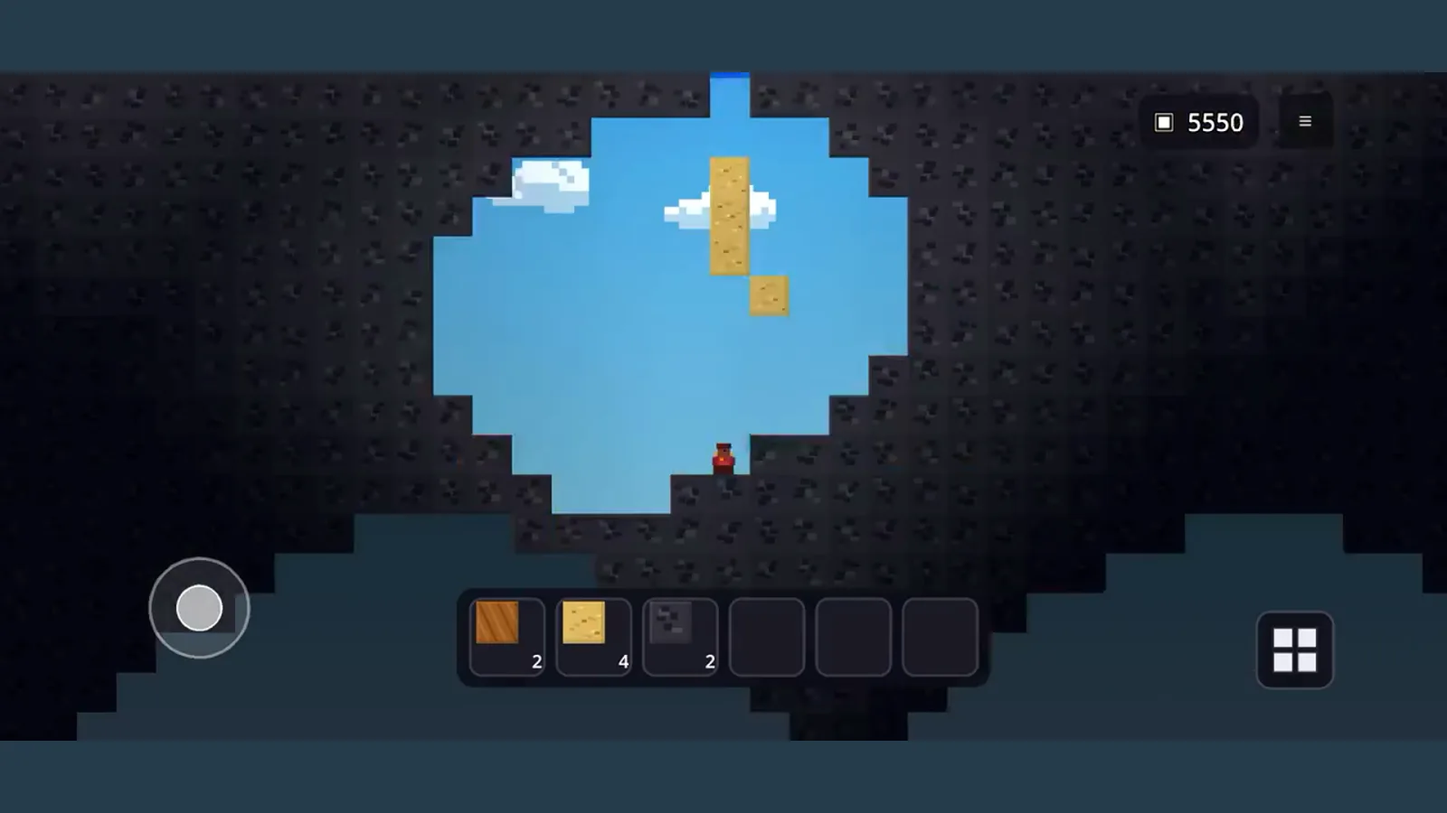
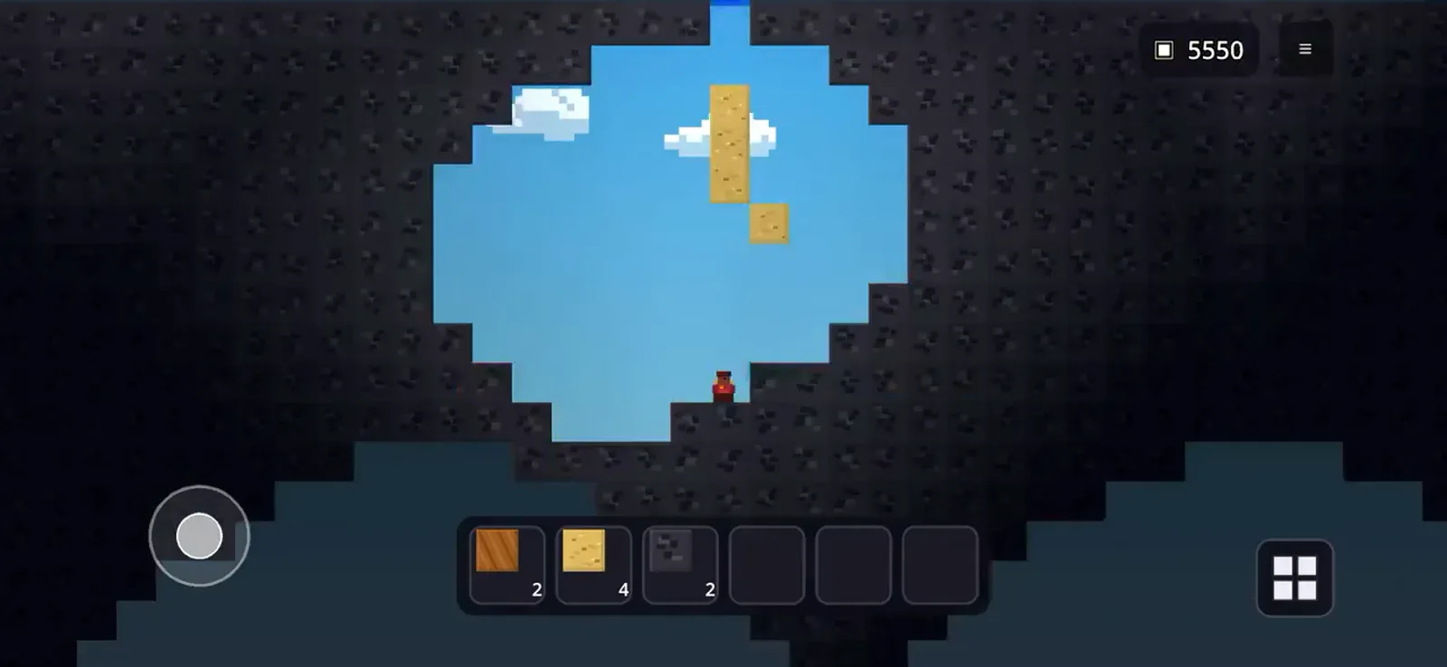
Crop letterboxing from gameplay wiki images

diff --git a/wiki/recipes/index.html b/wiki/recipes/index.html
@@ -24,7 +24,7 @@
 <body class="wiki-page">
   <header class="wiki-header"><a class="wiki-brand" href="/">Tiny Block</a><a class="btn btn-primary wiki-install" href="/download/">Play free</a></header>
   <nav class="wiki-nav" aria-label="Tiny Block Wiki"><a href="/wiki/">Wiki</a><a href="/wiki/biomes/">Biomes</a><a href="/wiki/materials/">Materials</a><a href="/wiki/creatures/">Creatures</a><a href="/wiki/plants/">Plants</a><a href="/wiki/recipes/">Recipes</a><a href="/guides/how-to-grow-your-one-block-island/">Starter guide</a></nav>
-  <main class="wiki-main"><section class="wiki-title"><p class="wiki-eyebrow">Crafting</p><h1>Recipes</h1><p>Use mined blocks and physical reactions to unlock stronger tools and new building materials.</p></section><div class="wiki-table-wrap"><table class="wiki-table"><thead><tr><th>Ingredients</th><th>Result</th></tr></thead><tbody><tr><td><div class="wiki-recipe-group"><span class="wiki-recipe-item"><img src="/assets/wiki/entities/materials/water.webp" alt="" width="512" height="512" loading="lazy"><span>Water<small>×1</small></span></span><span class="wiki-recipe-plus" aria-hidden="true">+</span><span class="wiki-recipe-item"><img src="/assets/wiki/entities/materials/lava.webp" alt="" width="512" height="512" loading="lazy"><span>Lava<small>×1</small></span></span></div></td><td><div class="wiki-recipe-group"><span class="wiki-recipe-item"><img src="/assets/wiki/entities/materials/cobblestone.webp" alt="" width="512" height="512" loading="lazy"><span>Cobblestone<small>×1</small></span></span></div></td></tr><tr><td><div class="wiki-recipe-group"><span class="wiki-recipe-item"><img src="/assets/wiki/entities/materials/cobblestone.webp" alt="" width="512" height="512" loading="lazy"><span>Cobblestone<small>×4</small></span></span></div></td><td><div class="wiki-recipe-group"><span class="wiki-recipe-item"><img src="/assets/wiki/entities/materials/stone.webp" alt="" width="512" height="512" loading="lazy"><span>Stone<small>×1</small></span></span></div></td></tr><tr><td><div class="wiki-recipe-group"><span class="wiki-recipe-item"><img src="/assets/wiki/entities/materials/leaves.webp" alt="" width="512" height="512" loading="lazy"><span>Leaves<small>×4</small></span></span></div></td><td><div class="wiki-recipe-group"><span class="wiki-recipe-item"><img src="/assets/wiki/entities/materials/wood.webp" alt="" width="512" height="512" loading="lazy"><span>Wood<small>×1</small></span></span></div></td></tr><tr><td><div class="wiki-recipe-group"><span class="wiki-recipe-item"><img src="/assets/wiki/entities/materials/stone.webp" alt="" width="512" height="512" loading="lazy"><span>Stone<small>×1</small></span></span></div></td><td><div class="wiki-recipe-group"><span class="wiki-recipe-item"><img src="/assets/wiki/entities/materials/gravel.webp" alt="" width="512" height="512" loading="lazy"><span>Gravel<small>×1</small></span></span></div></td></tr><tr><td><div class="wiki-recipe-group"><span class="wiki-recipe-item"><img src="/assets/wiki/entities/materials/gravel.webp" alt="" width="512" height="512" loading="lazy"><span>Gravel<small>×1</small></span></span></div></td><td><div class="wiki-recipe-group"><span class="wiki-recipe-item"><img src="/assets/wiki/entities/materials/sand.webp" alt="" width="512" height="512" loading="lazy"><span>Sand<small>×1</small></span></span></div></td></tr><tr><td><div class="wiki-recipe-group"><span class="wiki-recipe-item"><img src="/assets/wiki/entities/materials/sand.webp" alt="" width="512" height="512" loading="lazy"><span>Sand<small>×1</small></span></span><span class="wiki-recipe-plus" aria-hidden="true">+</span><span class="wiki-recipe-item"><img src="/assets/wiki/entities/materials/lava.webp" alt="" width="512" height="512" loading="lazy"><span>Lava<small>×1</small></span></span></div></td><td><div class="wiki-recipe-group"><span class="wiki-recipe-item"><img src="/assets/wiki/entities/materials/glass.webp" alt="" width="512" height="512" loading="lazy"><span>Glass<small>×1</small></span></span></div></td></tr><tr><td><div class="wiki-recipe-group"><span class="wiki-recipe-item"><img src="/assets/wiki/entities/materials/wood.webp" alt="" width="512" height="512" loading="lazy"><span>Wood<small>×1</small></span></span><span class="wiki-recipe-plus" aria-hidden="true">+</span><span class="wiki-recipe-item"><img src="/assets/wiki/entities/materials/lava.webp" alt="" width="512" height="512" loading="lazy"><span>Lava<small>×1</small></span></span></div></td><td><div class="wiki-recipe-group"><span class="wiki-recipe-item"><img src="/assets/wiki/entities/materials/charcoal.webp" alt="" width="512" height="512" loading="lazy"><span>Charcoal<small>×1</small></span></span></div></td></tr><tr><td><div class="wiki-recipe-group"><span class="wiki-recipe-item"><img src="/assets/wiki/entities/materials/wood.webp" alt="" width="512" height="512" loading="lazy"><span>Wood<small>×1</small></span></span></div></td><td><div class="wiki-recipe-group"><span class="wiki-recipe-item"><img src="/assets/wiki/entities/materials/planks.webp" alt="" width="512" height="512" loading="lazy"><span>Planks<small>×4</small></span></span></div></td></tr><tr><td><div class="wiki-recipe-group"><span class="wiki-recipe-item"><img src="/assets/wiki/entities/materials/stone.webp" alt="" width="512" height="512" loading="lazy"><span>Stone<small>×1</small></span></span><span class="wiki-recipe-plus" aria-hidden="true">+</span><span class="wiki-recipe-item"><img src="/assets/wiki/entities/materials/water.webp" alt="" width="512" height="512" loading="lazy"><span>Water<small>×1</small></span></span><span class="wiki-recipe-plus" aria-hidden="true">+</span><span class="wiki-recipe-item"><img src="/assets/wiki/entities/materials/lava.webp" alt="" width="512" height="512" loading="lazy"><span>Lava<small>×1</small></span></span></div></td><td><div class="wiki-recipe-group"><span class="wiki-recipe-item"><img src="/assets/wiki/entities/materials/obsidian.webp" alt="" width="512" height="512" loading="lazy"><span>Obsidian<small>×1</small></span></span></div></td></tr><tr><td><div class="wiki-recipe-group"><span class="wiki-recipe-item"><img src="/assets/wiki/entities/materials/planks.webp" alt="" width="512" height="512" loading="lazy"><span>Planks<small>×2</small></span></span><span class="wiki-recipe-plus" aria-hidden="true">+</span><span class="wiki-recipe-item"><img src="/assets/wiki/entities/materials/stone.webp" alt="" width="512" height="512" loading="lazy"><span>Stone<small>×1</small></span></span></div></td><td><div class="wiki-recipe-group"><span class="wiki-recipe-item"><img src="/assets/wiki/entities/materials/stone-pickaxe.webp" alt="" width="512" height="512" loading="lazy"><span>Stone Pickaxe<small>×1</small></span></span></div></td></tr><tr><td><div class="wiki-recipe-group"><span class="wiki-recipe-item"><img src="/assets/wiki/entities/materials/planks.webp" alt="" width="512" height="512" loading="lazy"><span>Planks<small>×4</small></span></span></div></td><td><div class="wiki-recipe-group"><span class="wiki-recipe-item"><img src="/assets/wiki/entities/materials/chest.webp" alt="" width="512" height="512" loading="lazy"><span>Chest<small>×1</small></span></span></div></td></tr><tr><td><div class="wiki-recipe-group"><span class="wiki-recipe-item"><img src="/assets/wiki/entities/materials/ice.webp" alt="" width="512" height="512" loading="lazy"><span>Ice<small>×4</small></span></span></div></td><td><div class="wiki-recipe-group"><span class="wiki-recipe-item"><img src="/assets/wiki/entities/materials/packed-ice.webp" alt="" width="512" height="512" loading="lazy"><span>Packed Ice<small>×1</small></span></span></div></td></tr><tr><td><div class="wiki-recipe-group"><span class="wiki-recipe-item"><img src="/assets/wiki/entities/materials/charcoal.webp" alt="" width="512" height="512" loading="lazy"><span>Charcoal<small>×1</small></span></span><span class="wiki-recipe-plus" aria-hidden="true">+</span><span class="wiki-recipe-item"><img src="/assets/wiki/entities/materials/glass.webp" alt="" width="512" height="512" loading="lazy"><span>Glass<small>×1</small></span></span><span class="wiki-recipe-plus" aria-hidden="true">+</span><span class="wiki-recipe-item"><img src="/assets/wiki/entities/materials/stone.webp" alt="" width="512" height="512" loading="lazy"><span>Stone<small>×1</small></span></span></div></td><td><div class="wiki-recipe-group"><span class="wiki-recipe-item"><img src="/assets/wiki/entities/materials/lantern.webp" alt="" width="512" height="512" loading="lazy"><span>Lantern<small>×1</small></span></span></div></td></tr><tr><td><div class="wiki-recipe-group"><span class="wiki-recipe-item"><img src="/assets/wiki/entities/materials/stone.webp" alt="" width="512" height="512" loading="lazy"><span>Stone<small>×2</small></span></span></div></td><td><div class="wiki-recipe-group"><span class="wiki-recipe-item"><img src="/assets/wiki/entities/materials/stone-bricks.webp" alt="" width="512" height="512" loading="lazy"><span>Stone Bricks<small>×2</small></span></span></div></td></tr><tr><td><div class="wiki-recipe-group"><span class="wiki-recipe-item"><img src="/assets/wiki/entities/materials/sand.webp" alt="" width="512" height="512" loading="lazy"><span>Sand<small>×2</small></span></span><span class="wiki-recipe-plus" aria-hidden="true">+</span><span class="wiki-recipe-item"><img src="/assets/wiki/entities/materials/stone.webp" alt="" width="512" height="512" loading="lazy"><span>Stone<small>×1</small></span></span></div></td><td><div class="wiki-recipe-group"><span class="wiki-recipe-item"><img src="/assets/wiki/entities/materials/sandstone.webp" alt="" width="512" height="512" loading="lazy"><span>Sandstone<small>×3</small></span></span></div></td></tr></tbody></table></div><figure class="wiki-wide-media"><img src="/assets/wiki/gameplay/06-recipes-inventory.webp" alt="Tiny Block crafting recipes and inventory" width="1600" height="900" loading="lazy"><figcaption>The in-game recipe catalog shows what can be made from discoveries in the current world.</figcaption></figure></main>
+  <main class="wiki-main"><section class="wiki-title"><p class="wiki-eyebrow">Crafting</p><h1>Recipes</h1><p>Use mined blocks and physical reactions to unlock stronger tools and new building materials.</p></section><div class="wiki-table-wrap"><table class="wiki-table"><thead><tr><th>Ingredients</th><th>Result</th></tr></thead><tbody><tr><td><div class="wiki-recipe-group"><span class="wiki-recipe-item"><img src="/assets/wiki/entities/materials/water.webp" alt="" width="512" height="512" loading="lazy"><span>Water<small>×1</small></span></span><span class="wiki-recipe-plus" aria-hidden="true">+</span><span class="wiki-recipe-item"><img src="/assets/wiki/entities/materials/lava.webp" alt="" width="512" height="512" loading="lazy"><span>Lava<small>×1</small></span></span></div></td><td><div class="wiki-recipe-group"><span class="wiki-recipe-item"><img src="/assets/wiki/entities/materials/cobblestone.webp" alt="" width="512" height="512" loading="lazy"><span>Cobblestone<small>×1</small></span></span></div></td></tr><tr><td><div class="wiki-recipe-group"><span class="wiki-recipe-item"><img src="/assets/wiki/entities/materials/cobblestone.webp" alt="" width="512" height="512" loading="lazy"><span>Cobblestone<small>×4</small></span></span></div></td><td><div class="wiki-recipe-group"><span class="wiki-recipe-item"><img src="/assets/wiki/entities/materials/stone.webp" alt="" width="512" height="512" loading="lazy"><span>Stone<small>×1</small></span></span></div></td></tr><tr><td><div class="wiki-recipe-group"><span class="wiki-recipe-item"><img src="/assets/wiki/entities/materials/leaves.webp" alt="" width="512" height="512" loading="lazy"><span>Leaves<small>×4</small></span></span></div></td><td><div class="wiki-recipe-group"><span class="wiki-recipe-item"><img src="/assets/wiki/entities/materials/wood.webp" alt="" width="512" height="512" loading="lazy"><span>Wood<small>×1</small></span></span></div></td></tr><tr><td><div class="wiki-recipe-group"><span class="wiki-recipe-item"><img src="/assets/wiki/entities/materials/stone.webp" alt="" width="512" height="512" loading="lazy"><span>Stone<small>×1</small></span></span></div></td><td><div class="wiki-recipe-group"><span class="wiki-recipe-item"><img src="/assets/wiki/entities/materials/gravel.webp" alt="" width="512" height="512" loading="lazy"><span>Gravel<small>×1</small></span></span></div></td></tr><tr><td><div class="wiki-recipe-group"><span class="wiki-recipe-item"><img src="/assets/wiki/entities/materials/gravel.webp" alt="" width="512" height="512" loading="lazy"><span>Gravel<small>×1</small></span></span></div></td><td><div class="wiki-recipe-group"><span class="wiki-recipe-item"><img src="/assets/wiki/entities/materials/sand.webp" alt="" width="512" height="512" loading="lazy"><span>Sand<small>×1</small></span></span></div></td></tr><tr><td><div class="wiki-recipe-group"><span class="wiki-recipe-item"><img src="/assets/wiki/entities/materials/sand.webp" alt="" width="512" height="512" loading="lazy"><span>Sand<small>×1</small></span></span><span class="wiki-recipe-plus" aria-hidden="true">+</span><span class="wiki-recipe-item"><img src="/assets/wiki/entities/materials/lava.webp" alt="" width="512" height="512" loading="lazy"><span>Lava<small>×1</small></span></span></div></td><td><div class="wiki-recipe-group"><span class="wiki-recipe-item"><img src="/assets/wiki/entities/materials/glass.webp" alt="" width="512" height="512" loading="lazy"><span>Glass<small>×1</small></span></span></div></td></tr><tr><td><div class="wiki-recipe-group"><span class="wiki-recipe-item"><img src="/assets/wiki/entities/materials/wood.webp" alt="" width="512" height="512" loading="lazy"><span>Wood<small>×1</small></span></span><span class="wiki-recipe-plus" aria-hidden="true">+</span><span class="wiki-recipe-item"><img src="/assets/wiki/entities/materials/lava.webp" alt="" width="512" height="512" loading="lazy"><span>Lava<small>×1</small></span></span></div></td><td><div class="wiki-recipe-group"><span class="wiki-recipe-item"><img src="/assets/wiki/entities/materials/charcoal.webp" alt="" width="512" height="512" loading="lazy"><span>Charcoal<small>×1</small></span></span></div></td></tr><tr><td><div class="wiki-recipe-group"><span class="wiki-recipe-item"><img src="/assets/wiki/entities/materials/wood.webp" alt="" width="512" height="512" loading="lazy"><span>Wood<small>×1</small></span></span></div></td><td><div class="wiki-recipe-group"><span class="wiki-recipe-item"><img src="/assets/wiki/entities/materials/planks.webp" alt="" width="512" height="512" loading="lazy"><span>Planks<small>×4</small></span></span></div></td></tr><tr><td><div class="wiki-recipe-group"><span class="wiki-recipe-item"><img src="/assets/wiki/entities/materials/stone.webp" alt="" width="512" height="512" loading="lazy"><span>Stone<small>×1</small></span></span><span class="wiki-recipe-plus" aria-hidden="true">+</span><span class="wiki-recipe-item"><img src="/assets/wiki/entities/materials/water.webp" alt="" width="512" height="512" loading="lazy"><span>Water<small>×1</small></span></span><span class="wiki-recipe-plus" aria-hidden="true">+</span><span class="wiki-recipe-item"><img src="/assets/wiki/entities/materials/lava.webp" alt="" width="512" height="512" loading="lazy"><span>Lava<small>×1</small></span></span></div></td><td><div class="wiki-recipe-group"><span class="wiki-recipe-item"><img src="/assets/wiki/entities/materials/obsidian.webp" alt="" width="512" height="512" loading="lazy"><span>Obsidian<small>×1</small></span></span></div></td></tr><tr><td><div class="wiki-recipe-group"><span class="wiki-recipe-item"><img src="/assets/wiki/entities/materials/planks.webp" alt="" width="512" height="512" loading="lazy"><span>Planks<small>×2</small></span></span><span class="wiki-recipe-plus" aria-hidden="true">+</span><span class="wiki-recipe-item"><img src="/assets/wiki/entities/materials/stone.webp" alt="" width="512" height="512" loading="lazy"><span>Stone<small>×1</small></span></span></div></td><td><div class="wiki-recipe-group"><span class="wiki-recipe-item"><img src="/assets/wiki/entities/materials/stone-pickaxe.webp" alt="" width="512" height="512" loading="lazy"><span>Stone Pickaxe<small>×1</small></span></span></div></td></tr><tr><td><div class="wiki-recipe-group"><span class="wiki-recipe-item"><img src="/assets/wiki/entities/materials/planks.webp" alt="" width="512" height="512" loading="lazy"><span>Planks<small>×4</small></span></span></div></td><td><div class="wiki-recipe-group"><span class="wiki-recipe-item"><img src="/assets/wiki/entities/materials/chest.webp" alt="" width="512" height="512" loading="lazy"><span>Chest<small>×1</small></span></span></div></td></tr><tr><td><div class="wiki-recipe-group"><span class="wiki-recipe-item"><img src="/assets/wiki/entities/materials/ice.webp" alt="" width="512" height="512" loading="lazy"><span>Ice<small>×4</small></span></span></div></td><td><div class="wiki-recipe-group"><span class="wiki-recipe-item"><img src="/assets/wiki/entities/materials/packed-ice.webp" alt="" width="512" height="512" loading="lazy"><span>Packed Ice<small>×1</small></span></span></div></td></tr><tr><td><div class="wiki-recipe-group"><span class="wiki-recipe-item"><img src="/assets/wiki/entities/materials/charcoal.webp" alt="" width="512" height="512" loading="lazy"><span>Charcoal<small>×1</small></span></span><span class="wiki-recipe-plus" aria-hidden="true">+</span><span class="wiki-recipe-item"><img src="/assets/wiki/entities/materials/glass.webp" alt="" width="512" height="512" loading="lazy"><span>Glass<small>×1</small></span></span><span class="wiki-recipe-plus" aria-hidden="true">+</span><span class="wiki-recipe-item"><img src="/assets/wiki/entities/materials/stone.webp" alt="" width="512" height="512" loading="lazy"><span>Stone<small>×1</small></span></span></div></td><td><div class="wiki-recipe-group"><span class="wiki-recipe-item"><img src="/assets/wiki/entities/materials/lantern.webp" alt="" width="512" height="512" loading="lazy"><span>Lantern<small>×1</small></span></span></div></td></tr><tr><td><div class="wiki-recipe-group"><span class="wiki-recipe-item"><img src="/assets/wiki/entities/materials/stone.webp" alt="" width="512" height="512" loading="lazy"><span>Stone<small>×2</small></span></span></div></td><td><div class="wiki-recipe-group"><span class="wiki-recipe-item"><img src="/assets/wiki/entities/materials/stone-bricks.webp" alt="" width="512" height="512" loading="lazy"><span>Stone Bricks<small>×2</small></span></span></div></td></tr><tr><td><div class="wiki-recipe-group"><span class="wiki-recipe-item"><img src="/assets/wiki/entities/materials/sand.webp" alt="" width="512" height="512" loading="lazy"><span>Sand<small>×2</small></span></span><span class="wiki-recipe-plus" aria-hidden="true">+</span><span class="wiki-recipe-item"><img src="/assets/wiki/entities/materials/stone.webp" alt="" width="512" height="512" loading="lazy"><span>Stone<small>×1</small></span></span></div></td><td><div class="wiki-recipe-group"><span class="wiki-recipe-item"><img src="/assets/wiki/entities/materials/sandstone.webp" alt="" width="512" height="512" loading="lazy"><span>Sandstone<small>×3</small></span></span></div></td></tr></tbody></table></div><figure class="wiki-wide-media"><img src="/assets/wiki/gameplay/06-recipes-inventory.webp" alt="Tiny Block crafting recipes and inventory" width="1600" height="738" loading="lazy"><figcaption>The in-game recipe catalog shows what can be made from discoveries in the current world.</figcaption></figure></main>
   <footer class="site-foot wiki-foot"><a href="/">Game</a><a href="/creators/">Creators</a><a href="/privacy/">Privacy</a><a href="https://nosuchgames.com">No Such Games</a></footer>
 </body>
 </html>

diff --git a/wiki/index.html b/wiki/index.html
@@ -24,7 +24,7 @@
 <body class="wiki-page">
   <header class="wiki-header"><a class="wiki-brand" href="/">Tiny Block</a><a class="btn btn-primary wiki-install" href="/download/">Play free</a></header>
   <nav class="wiki-nav" aria-label="Tiny Block Wiki"><a href="/wiki/">Wiki</a><a href="/wiki/biomes/">Biomes</a><a href="/wiki/materials/">Materials</a><a href="/wiki/creatures/">Creatures</a><a href="/wiki/plants/">Plants</a><a href="/wiki/recipes/">Recipes</a><a href="/guides/how-to-grow-your-one-block-island/">Starter guide</a></nav>
-  <main class="wiki-main"><section class="wiki-hero"><p class="wiki-eyebrow">Official game guide</p><h1>Tiny Block Wiki</h1><p>Explore the biomes, materials, recipes, plants, and creatures already living inside Tiny Block.</p><img src="/assets/wiki/gameplay/05-random-world.webp" alt="A generated floating island in Tiny Block" width="1600" height="900"></section><div class="wiki-grid"><a class="wiki-card wiki-card-link" href="/wiki/biomes/"><p class="wiki-label">Guide</p><h2>Biomes</h2><p>Open the current in-game catalog and learn where each discovery fits.</p></a><a class="wiki-card wiki-card-link" href="/wiki/materials/"><p class="wiki-label">Guide</p><h2>Materials</h2><p>Open the current in-game catalog and learn where each discovery fits.</p></a><a class="wiki-card wiki-card-link" href="/wiki/creatures/"><p class="wiki-label">Guide</p><h2>Creatures</h2><p>Open the current in-game catalog and learn where each discovery fits.</p></a><a class="wiki-card wiki-card-link" href="/wiki/plants/"><p class="wiki-label">Guide</p><h2>Plants</h2><p>Open the current in-game catalog and learn where each discovery fits.</p></a><a class="wiki-card wiki-card-link" href="/wiki/recipes/"><p class="wiki-label">Guide</p><h2>Recipes</h2><p>Open the current in-game catalog and learn where each discovery fits.</p></a><a class="wiki-card wiki-card-link" href="/guides/how-to-grow-your-one-block-island/"><p class="wiki-label">Guide</p><h2>Starter guide</h2><p>Open the current in-game catalog and learn where each discovery fits.</p></a></div></main>
+  <main class="wiki-main"><section class="wiki-hero"><p class="wiki-eyebrow">Official game guide</p><h1>Tiny Block Wiki</h1><p>Explore the biomes, materials, recipes, plants, and creatures already living inside Tiny Block.</p><img src="/assets/wiki/gameplay/05-random-world.webp" alt="A generated floating island in Tiny Block" width="1600" height="738"></section><div class="wiki-grid"><a class="wiki-card wiki-card-link" href="/wiki/biomes/"><p class="wiki-label">Guide</p><h2>Biomes</h2><p>Open the current in-game catalog and learn where each discovery fits.</p></a><a class="wiki-card wiki-card-link" href="/wiki/materials/"><p class="wiki-label">Guide</p><h2>Materials</h2><p>Open the current in-game catalog and learn where each discovery fits.</p></a><a class="wiki-card wiki-card-link" href="/wiki/creatures/"><p class="wiki-label">Guide</p><h2>Creatures</h2><p>Open the current in-game catalog and learn where each discovery fits.</p></a><a class="wiki-card wiki-card-link" href="/wiki/plants/"><p class="wiki-label">Guide</p><h2>Plants</h2><p>Open the current in-game catalog and learn where each discovery fits.</p></a><a class="wiki-card wiki-card-link" href="/wiki/recipes/"><p class="wiki-label">Guide</p><h2>Recipes</h2><p>Open the current in-game catalog and learn where each discovery fits.</p></a><a class="wiki-card wiki-card-link" href="/guides/how-to-grow-your-one-block-island/"><p class="wiki-label">Guide</p><h2>Starter guide</h2><p>Open the current in-game catalog and learn where each discovery fits.</p></a></div></main>
   <footer class="site-foot wiki-foot"><a href="/">Game</a><a href="/creators/">Creators</a><a href="/privacy/">Privacy</a><a href="https://nosuchgames.com">No Such Games</a></footer>
 </body>
 </html>

diff --git a/guides/how-to-grow-your-one-block-island/index.html b/guides/how-to-grow-your-one-block-island/index.html
@@ -32,7 +32,7 @@
       <article><span>04</span><h2>Craft tools and storage</h2><p>Turn wood into planks, then make a pickaxe and chest. Better tools shorten mining time and protect your discoveries.</p></article>
       <article><span>05</span><h2>Follow new biomes</h2><p>Floating Islands introduce different terrain, plants, creatures, and recipes. Prepare for darkness, ice, lava, and aggressive night creatures.</p></article>
     </div>
-    <figure class="wiki-wide-media"><img src="/assets/wiki/gameplay/01-one-block-skyblock.webp" alt="Starting a One Block Skyblock world in Tiny Block" width="1600" height="900"><figcaption>A new One Block world starts small and grows through mining, crafting, and discovery.</figcaption></figure></main>
+    <figure class="wiki-wide-media"><img src="/assets/wiki/gameplay/01-one-block-skyblock.webp" alt="Starting a One Block Skyblock world in Tiny Block" width="1600" height="738"><figcaption>A new One Block world starts small and grows through mining, crafting, and discovery.</figcaption></figure></main>
   <footer class="site-foot wiki-foot"><a href="/">Game</a><a href="/creators/">Creators</a><a href="/privacy/">Privacy</a><a href="https://nosuchgames.com">No Such Games</a></footer>
 </body>
 </html>

diff --git a/scripts/generate_wiki.py b/scripts/generate_wiki.py
@@ -169,7 +169,7 @@ def recipe_group(items: tuple[tuple[str, int, str], ...]) -> str:
 
 
 def render() -> None:
-    overview = '''<section class="wiki-hero"><p class="wiki-eyebrow">Official game guide</p><h1>Tiny Block Wiki</h1><p>Explore the biomes, materials, recipes, plants, and creatures already living inside Tiny Block.</p><img src="/assets/wiki/gameplay/05-random-world.webp" alt="A generated floating island in Tiny Block" width="1600" height="900"></section>'''
+    overview = '''<section class="wiki-hero"><p class="wiki-eyebrow">Official game guide</p><h1>Tiny Block Wiki</h1><p>Explore the biomes, materials, recipes, plants, and creatures already living inside Tiny Block.</p><img src="/assets/wiki/gameplay/05-random-world.webp" alt="A generated floating island in Tiny Block" width="1600" height="738"></section>'''
     overview += '<div class="wiki-grid">' + "".join(
         f'<a class="wiki-card wiki-card-link" href="{href}"><p class="wiki-label">Guide</p><h2>{esc(label)}</h2><p>Open the current in-game catalog and learn where each discovery fits.</p></a>'
         for label, href in NAV[1:]
@@ -190,7 +190,7 @@ def render() -> None:
     page("Plants", "Explore Tiny Block flowers, vines, decorative plants, and biome-specific trees.", "wiki/plants/", '<section class="wiki-title"><p class="wiki-eyebrow">Growing discoveries</p><h1>Plants</h1><p>Plant life ranges from single flowers and potted decor to hanging cave vines and full trees.</p></section>' + card_grid(PLANTS, "Plant", "plants"))
 
     rows = "".join(f'<tr><td>{recipe_group(recipe[:-1])}</td><td>{recipe_group(recipe[-1:])}</td></tr>' for recipe in RECIPES)
-    page("Crafting Recipes", "Current starter recipes for materials, tools, storage, building blocks, and light in Tiny Block.", "wiki/recipes/", f'<section class="wiki-title"><p class="wiki-eyebrow">Crafting</p><h1>Recipes</h1><p>Use mined blocks and physical reactions to unlock stronger tools and new building materials.</p></section><div class="wiki-table-wrap"><table class="wiki-table"><thead><tr><th>Ingredients</th><th>Result</th></tr></thead><tbody>{rows}</tbody></table></div><figure class="wiki-wide-media"><img src="/assets/wiki/gameplay/06-recipes-inventory.webp" alt="Tiny Block crafting recipes and inventory" width="1600" height="900" loading="lazy"><figcaption>The in-game recipe catalog shows what can be made from discoveries in the current world.</figcaption></figure>')
+    page("Crafting Recipes", "Current starter recipes for materials, tools, storage, building blocks, and light in Tiny Block.", "wiki/recipes/", f'<section class="wiki-title"><p class="wiki-eyebrow">Crafting</p><h1>Recipes</h1><p>Use mined blocks and physical reactions to unlock stronger tools and new building materials.</p></section><div class="wiki-table-wrap"><table class="wiki-table"><thead><tr><th>Ingredients</th><th>Result</th></tr></thead><tbody>{rows}</tbody></table></div><figure class="wiki-wide-media"><img src="/assets/wiki/gameplay/06-recipes-inventory.webp" alt="Tiny Block crafting recipes and inventory" width="1600" height="738" loading="lazy"><figcaption>The in-game recipe catalog shows what can be made from discoveries in the current world.</figcaption></figure>')
 
     guide = '''<section class="wiki-title"><p class="wiki-eyebrow">One Block starter guide</p><h1>How to grow your floating island</h1><p>Turn the first block into a safe, renewable base before exploring farther biomes.</p></section>
     <div class="guide-steps">
@@ -200,7 +200,7 @@ def render() -> None:
       <article><span>04</span><h2>Craft tools and storage</h2><p>Turn wood into planks, then make a pickaxe and chest. Better tools shorten mining time and protect your discoveries.</p></article>
       <article><span>05</span><h2>Follow new biomes</h2><p>Floating Islands introduce different terrain, plants, creatures, and recipes. Prepare for darkness, ice, lava, and aggressive night creatures.</p></article>
     </div>
-    <figure class="wiki-wide-media"><img src="/assets/wiki/gameplay/01-one-block-skyblock.webp" alt="Starting a One Block Skyblock world in Tiny Block" width="1600" height="900"><figcaption>A new One Block world starts small and grows through mining, crafting, and discovery.</figcaption></figure>'''
+    <figure class="wiki-wide-media"><img src="/assets/wiki/gameplay/01-one-block-skyblock.webp" alt="Starting a One Block Skyblock world in Tiny Block" width="1600" height="738"><figcaption>A new One Block world starts small and grows through mining, crafting, and discovery.</figcaption></figure>'''
     page("How to Grow a One Block Island", "A beginner guide to mining, crafting, expanding, and surviving your first One Block Skyblock island in Tiny Block.", "guides/how-to-grow-your-one-block-island/", guide, "Article")
 
 
